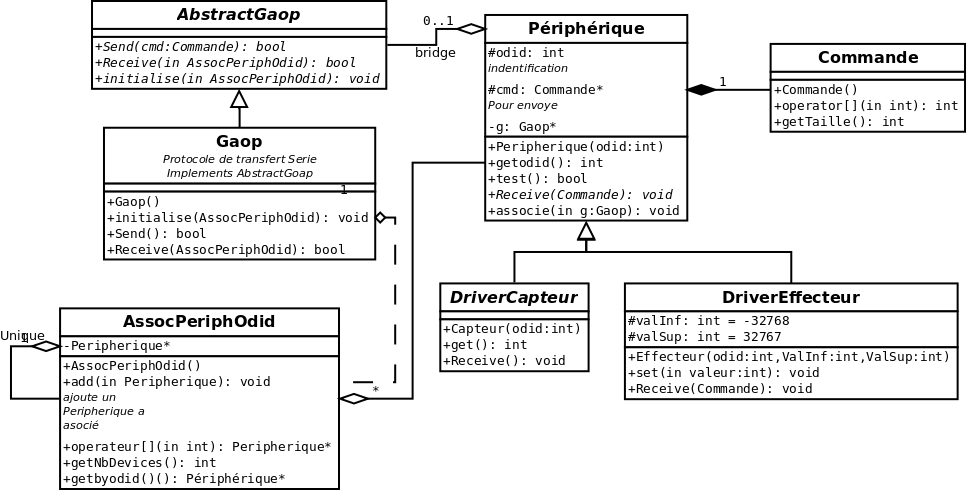
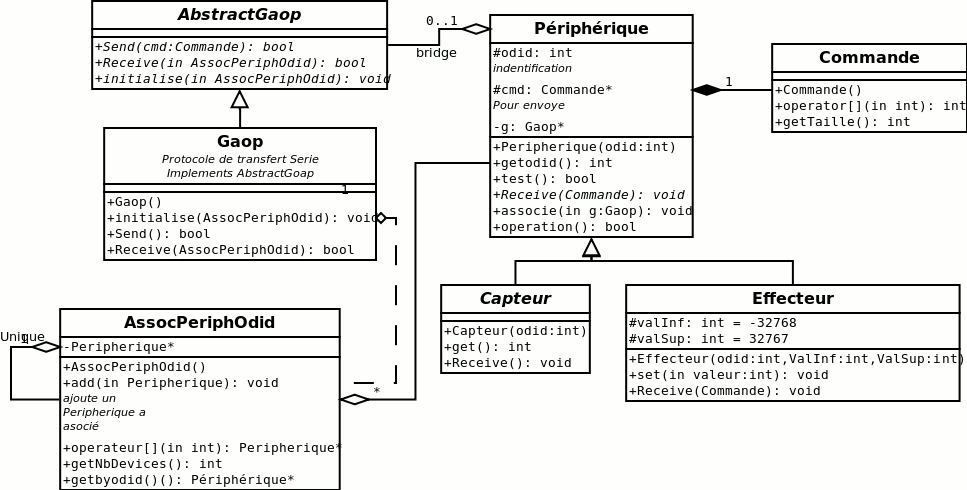
Renomage plus explicite de xCapteur et xEffecteur

diff --git a/commun/GeneriqueEffecteur.h b/commun/GeneriqueEffecteur.h
@@ -1,0 +1,15 @@
+#ifndef GAOPEFFECTEUR
+#define GAOPEFFECTEUR
+#include "AbstractEffecteur.h"
+
+class GeneriqueEffecteur : public AbstractEffecteur
+{
+	public:
+		//utilisation de pointeur pour wrapper sous urbi (eventuellement)
+		GeneriqueEffecteur(Effecteur*, AssocPeriphOdid*);
+		~GeneriqueEffecteur();
+		bool test();
+		bool set(int val); //doit etre implementer sur l'arduino par les objet qui herite de Effecteur
+};
+
+#endif /*GAOPEFFECTEUR*/

diff --git a/commun/GeneriqueCapteur.h b/commun/GeneriqueCapteur.h
@@ -1,0 +1,15 @@
+#ifndef GAOPCAPTEUR
+#define GAOPCAPTEUR
+#include "AbstractCapteur.h"
+
+class GeneriqueCapteur : public AbstractCapteur
+{
+	public:
+		//utilisation de pointeur pour wrapper sous urbi (eventuellement)
+		GeneriqueCapteur(Capteur*, AssocPeriphOdid*);
+		~GeneriqueCapteur();
+		int get(); //doit etre implementer sur l'arduino par les objet qui herite de Capteur
+		bool test();
+};
+
+#endif /*GAOPCAPTEUR*/

diff --git a/arduino/GeneriqueEffecteur.cpp b/arduino/GeneriqueEffecteur.cpp
@@ -1,0 +1,20 @@
+#include "GeneriqueEffecteur.h"
+
+GeneriqueEffecteur::GeneriqueEffecteur(Effecteur* driver, AssocPeriphOdid* assoc)
+{
+	this->driver = driver;
+	assoc->add(driver);
+}
+
+GeneriqueEffecteur::~GeneriqueEffecteur() { }
+
+bool GeneriqueEffecteur::set(int value)
+{
+	return driver->set(value);
+}	
+
+bool GeneriqueEffecteur::test()
+{
+	return true;
+}
+

diff --git a/arduino/GeneriqueCapteur.cpp b/arduino/GeneriqueCapteur.cpp
@@ -1,0 +1,20 @@
+#include "GeneriqueCapteur.h"
+
+GeneriqueCapteur::GeneriqueCapteur(Capteur* driver, AssocPeriphOdid* assoc)
+{
+	this->driver = driver;
+	assoc->add(driver);
+}
+
+GeneriqueCapteur::~GeneriqueCapteur() { }
+
+int GeneriqueCapteur::get()
+{
+	return driver->get();
+}	
+
+bool GeneriqueCapteur::test()
+{
+	return true;
+}
+

diff --git a/arduino/Effecteur.cpp b/arduino/Effecteur.cpp
@@ -8,12 +8,6 @@ Effecteur::Effecteur(int odid, int lim_bas, int lim_haut) : Peripherique(odid)
 
 Effecteur::~Effecteur() { }
 
-bool Effecteur::test()
-{
-	//TODO : trouver une methode pour tester
-	return true;
-}
-
 void Effecteur::Receive(Commande& c)
 {
 	if (c[0] >= valInf && c[0] <= valSup) set(c[0]);

diff --git a/arduino/Capteur.cpp b/arduino/Capteur.cpp
@@ -5,12 +5,6 @@ Capteur::Capteur(int odid) : Peripherique(odid)
 
 Capteur::~Capteur() { }
 
-bool Capteur::test()
-{
-	//TODO : trouver une methode pour tester
-	return true;
-}
-
 void Capteur::Receive(Commande& c)
 {
 	cmd[0] = get();

diff --git a/commun/AbstractEffecteur.h b/commun/AbstractEffecteur.h
@@ -7,6 +7,7 @@ class AbstractEffecteur
 {
 	public:
 		virtual bool set(int valuetoset) = 0;
+		virtual bool test() = 0;
 	protected:
 		Effecteur* driver;
 };

diff --git a/commun/AbstractCapteur.h b/commun/AbstractCapteur.h
@@ -7,6 +7,7 @@ class AbstractCapteur
 {
 	public:
 		virtual int get() = 0;
+		virtual bool test() = 0;
 	protected:
 		Capteur* driver;
 };
